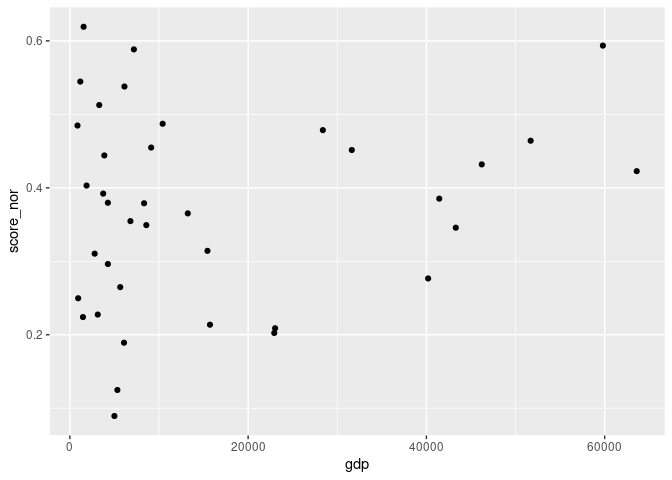
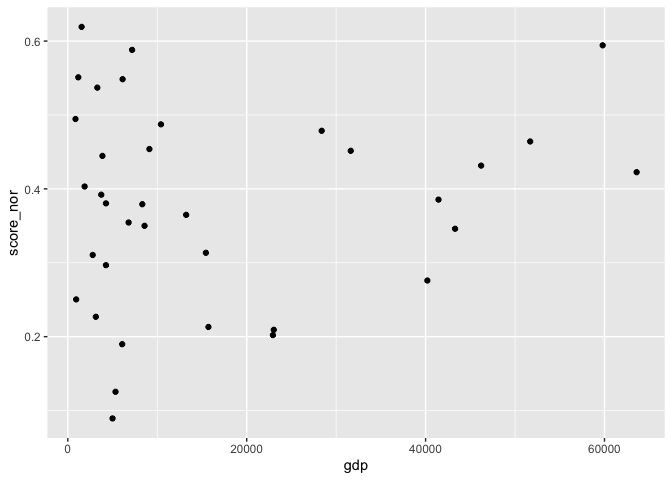
Md file updated

diff --git a/China_Index.md b/China_Index.md
@@ -1,4 +1,4 @@
-China_Index
+China\_Index
 ================
 Ben P-S- Lee
 04/15/2022
@@ -16,12 +16,12 @@ power**, China Index is a project developed by Doublethinklab (DTL).
 library(tidyverse)
 ```
 
-    ## ── Attaching packages ─────────────────────────────────────── tidyverse 1.3.1 ──
+    ## ── Attaching packages ─────────────────────────────────────── tidyverse 1.3.0 ──
 
-    ## ✓ ggplot2 3.3.5     ✓ purrr   0.3.4
-    ## ✓ tibble  3.1.6     ✓ dplyr   1.0.8
-    ## ✓ tidyr   1.2.0     ✓ stringr 1.4.0
-    ## ✓ readr   2.1.2     ✓ forcats 0.5.1
+    ## ✓ ggplot2 3.3.2     ✓ purrr   0.3.4
+    ## ✓ tibble  3.0.4     ✓ dplyr   1.0.2
+    ## ✓ tidyr   1.1.2     ✓ stringr 1.4.0
+    ## ✓ readr   1.4.0     ✓ forcats 0.5.0
 
     ## ── Conflicts ────────────────────────────────────────── tidyverse_conflicts() ──
     ## x dplyr::filter() masks stats::filter()
@@ -74,7 +74,7 @@ library(quantmod)
     ##   as.zoo.data.frame zoo
 
 ``` r
-china_index <- read_excel("china_index_answer_2022-04-07.xlsx", 
+china_index <- read_excel("china_index_answer_2022-04-22.xlsx", 
     col_types = c("numeric", "numeric", "text", 
         "text", "numeric", "numeric", "text", 
         "skip", "numeric", "text"))
@@ -95,8 +95,7 @@ china_index_country <- china_index %>%
   column_to_rownames(var = "country")
 ```
 
-    ## `summarise()` has grouped output by 'country'. You can override using the
-    ## `.groups` argument.
+    ## `summarise()` regrouping output by 'country' (override with `.groups` argument)
 
 ``` r
 china_index_country["Kyrgyzstan", "gdp"] <- 1173.61
@@ -119,8 +118,7 @@ china_index_domain <- china_index %>%
   arrange(region, domain_x, desc(score_domain))
 ```
 
-    ## `summarise()` has grouped output by 'country', 'region'. You can override using
-    ## the `.groups` argument.
+    ## `summarise()` regrouping output by 'country', 'region' (override with `.groups` argument)
 
 ``` r
 china_index_domain %>%
